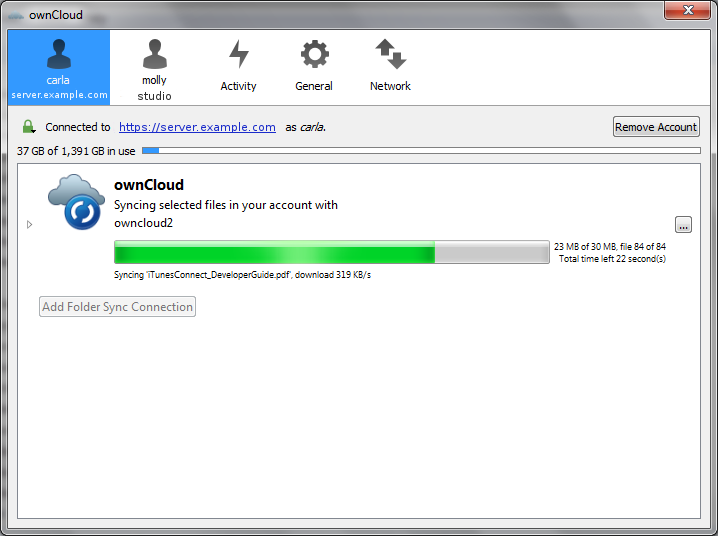
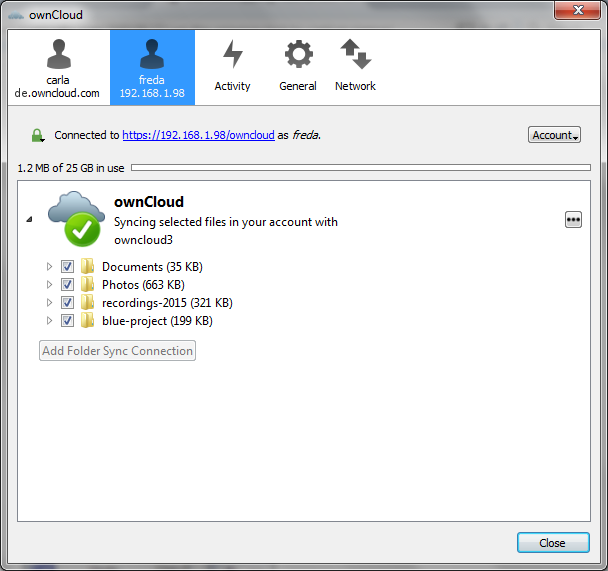
updates for 2.1 release

Changed region(s): [[0.0, 0.0, 1.0, 1.0]]

diff --git a/doc/navigating.rst b/doc/navigating.rst
@@ -56,13 +56,11 @@ A right-click on the icon opens a menu for quick access to multiple operations.
 
 The Desktop Client menu provides the following options:
 
-* Open ownCloud in browser
-* Open folder [your local sync folder]
-* Up to date
-* Recent changes
-* Settings
-* Help
-* Log out
+* Quick access to your accounts
+* Recent Changes, showing latest activities
+* Status of your client version (whether it is up to date)
+* Help menu
+* An option to log out of all of your accounts at once
 * Quit ownCloud
 
 Using the Account Settings Window
@@ -72,7 +70,7 @@ Using the Account Settings Window
 
 Click **Settings** in the right-click menu to see a summary of your ownCloud 
 account settings, or left-click your systray icon. This shows which ownCloud 
-account you are connected to (or accounts, if you have more than one) your 
+account you are connected to, (or accounts, if you have more than one) your 
 quota status, and a window for managing your synchronization settings.
 
 .. image:: images/client6.png
@@ -84,20 +82,20 @@ have the following features:
 
 * Connection status, showing which ownCloud server you are connected to, and 
   your ownCloud username.
-* A **Remove Account** button, which deletes your account but does not delete 
-  your data files.
+* An **Account** button, which contains a dropdown menu with **Add New**, 
+  **Sign Out**, and **Remove**.
 * Used and available space on the server.
 * Current synchronization status.
 * **Add Folder Sync Connection** button, which is active only when you have 
   removed synchronization on an account (see **Remove Sync** below).
 
-The little button with three dots that sits to the right of the sync status bar 
-offers four additional options:
+The little button with three dots (the overflow menu) that sits to the right of 
+the sync status bar offers four additional options:
 
 * Open Folder
 * Choose What to Sync
 * Pause Sync / Resume Sync
-* Remove Sync
+* Remove folder sync connection
 
 **Open Folder** opens a file explorer window displaying the client-side folder
 that is being synced.
@@ -123,16 +121,16 @@ downloaded and deleted, and which local folders your files went into.
 The General window has configuration options such as **Launch on System 
 Startup**, **Use Monochrome Icons**, and **Show Desktop Notifications**. This 
 is where you will find the **Edit Ignored Files** button, to launch the ignored 
-files editor, and two new features: **Ask confirmation before downloading 
-folders larger than [folder size]**, and **Add an Account**. 
+files editor, and **Ask confirmation before downloading 
+folders larger than [folder size]**.
 
 Multi-Account Support
 ---------------------
 
 You may now configure multiple ownCloud accounts in your desktop sync client. 
-Simply click the **Add an Account** button on the General tab, and follow the 
-account creation wizard. The new account will appear as a new tab in the 
-settings dialog, where you can adjust its settings at any time.
+Simply click the **Account** > **Add New** button, and then follow the account 
+creation wizard. The new account will appear as a new tab in the settings 
+dialog, where you can adjust its settings at any time.
 
 Editing Ignored Files
 ---------------------
